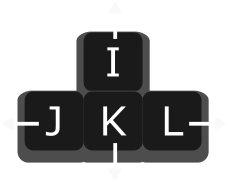
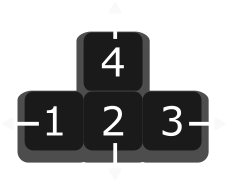
Fixed in UI

diff --git a/Assets/Input/TheInput.cs b/Assets/Input/TheInput.cs
@@ -66,7 +66,7 @@ public class @TheInput : IInputActionCollection, IDisposable
                 {
                     ""name"": """",
                     ""id"": ""f9ff09f7-702c-4f9d-9471-f240b9d0abcc"",
-                    ""path"": ""<Keyboard>/1"",
+                    ""path"": ""<Keyboard>/4"",
                     ""interactions"": """",
                     ""processors"": """",
                     ""groups"": """",
@@ -88,7 +88,7 @@ public class @TheInput : IInputActionCollection, IDisposable
                 {
                     ""name"": """",
                     ""id"": ""7aa82e50-e749-48d6-95f5-8921e4f95f5b"",
-                    ""path"": ""<Keyboard>/2"",
+                    ""path"": ""<Keyboard>/1"",
                     ""interactions"": """",
                     ""processors"": """",
                     ""groups"": """",
@@ -110,7 +110,7 @@ public class @TheInput : IInputActionCollection, IDisposable
                 {
                     ""name"": """",
                     ""id"": ""9e8795d2-84b5-483d-91fd-c6a9abb36c99"",
-                    ""path"": ""<Keyboard>/3"",
+                    ""path"": ""<Keyboard>/2"",
                     ""interactions"": """",
                     ""processors"": """",
                     ""groups"": """",
@@ -132,7 +132,7 @@ public class @TheInput : IInputActionCollection, IDisposable
                 {
                     ""name"": """",
                     ""id"": ""4cd8a2fa-efa9-4c9a-9337-8438373f4aaf"",
-                    ""path"": ""<Keyboard>/4"",
+                    ""path"": ""<Keyboard>/3"",
                     ""interactions"": """",
                     ""processors"": """",
                     ""groups"": """",
@@ -391,7 +391,7 @@ public class @TheInput : IInputActionCollection, IDisposable
                     ""id"": ""d7f19ca4-3f49-4970-a5fd-979625bf4e1f"",
                     ""path"": ""<Mouse>/delta"",
                     ""interactions"": """",
-                    ""processors"": ""ScaleVector2(x=0.1,y=0.1)"",
+                    ""processors"": ""ScaleVector2(x=0.05,y=0.05)"",
                     ""groups"": """",
                     ""action"": ""Look"",
                     ""isComposite"": false,

diff --git a/Assets/Scripts/TitleScreen/TitleScreen.cs b/Assets/Scripts/TitleScreen/TitleScreen.cs
@@ -27,6 +27,7 @@ public class TitleScreen : MonoBehaviour
         controls.TitleScreen.Enable();
 
         Cursor.lockState = CursorLockMode.Locked;
+        Cursor.visible = false;
 
         SetFinalText();
     }
